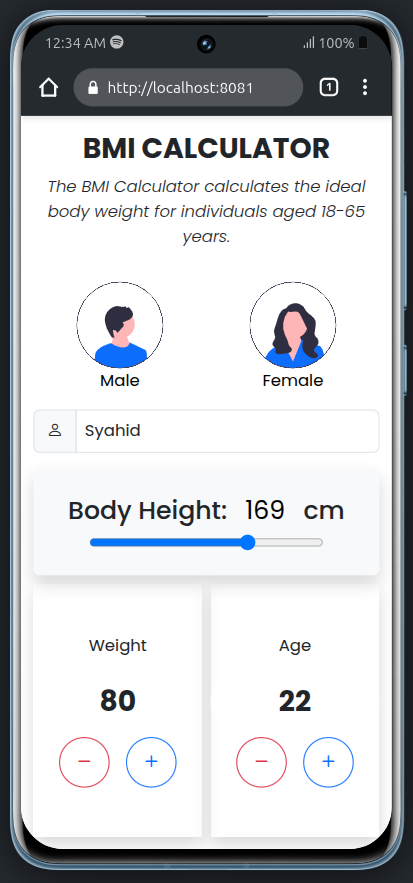
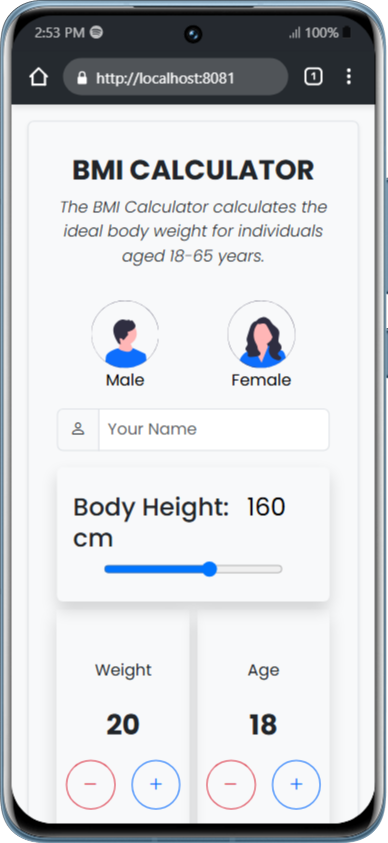
finish

diff --git a/src/components/BMIResult.jsx b/src/components/BMIResult.jsx
@@ -1,11 +1,11 @@
-import React, { useEffect, useMemo, useState } from "react";
+import React, { useEffect, useState } from "react";
 import Slider from "./Slider";
 import WeightandAge from "./WeightandAge";
 import User from "./User";
-import BMIHistory from "./BMIHistory";
-import WithLoading from "./WithLoading";
+import Loading from "./Loading";
 
 function BMIResult() {
+  const [isLoading, setIsLoading] = useState(false);
   const [bmi, setBmi] = useState(null);
   const [category, setCategory] = useState("");
   const [height, setHeight] = useState(160);
@@ -14,16 +14,15 @@ function BMIResult() {
   const [gender, setGender] = useState("");
   const [history, setHistory] = useState([]);
 
-  const storedHistory = JSON.parse(localStorage.getItem("bmiHistory")) || [];
-
-  // useEffect(() => {
-  //   const storedHistory = JSON.parse(localStorage.getItem("bmiHistory")) || [];
-  //   setHistory(storedHistory);
-  // }, []);
-
-  const BMIHistoryWithLoading = useMemo(() => {
-    return WithLoading(BMIHistory, storedHistory);
-  }, [storedHistory]);
+  useEffect(() => {
+    setIsLoading(true);
+    setTimeout(() => {
+      const storedHistory =
+        JSON.parse(localStorage.getItem("bmiHistory")) || [];
+      setHistory(storedHistory);
+      setIsLoading(false);
+    }, 1500);
+  }, []);
 
   const calculateBMI = () => {
     if (!name.trim() || !gender.trim()) {
@@ -31,40 +30,60 @@ function BMIResult() {
       return;
     }
 
-    const heightInMeters = height / 100;
-    const bmiValue = (weight / (heightInMeters * heightInMeters)).toFixed(2);
+    setIsLoading(true);
 
-    let bmiCategory = "";
-    if (bmiValue < 18.5) {
-      bmiCategory = "Underweight";
-    } else if (bmiValue >= 18.5 && bmiValue < 24.9) {
-      bmiCategory = "Normal weight";
-    } else if (bmiValue >= 25 && bmiValue < 29.9) {
-      bmiCategory = "Overweight";
-    } else {
-      bmiCategory = "Obese";
-    }
+    setTimeout(() => {
+      const heightInMeters = height / 100;
+      const bmiValue = (weight / (heightInMeters * heightInMeters)).toFixed(2);
+      console.log("ini adalah bmi value: ", bmiValue);
 
-    setBmi(bmiValue);
-    setCategory(bmiCategory);
+      let bmiCategory = "";
+      if (gender === "Male") {
+        if (bmiValue < 18.5) {
+          bmiCategory = "Underweight";
+        } else if (bmiValue >= 18.5 && bmiValue < 24.9) {
+          bmiCategory = "Normal weight";
+        } else if (bmiValue >= 25 && bmiValue < 29.9) {
+          bmiCategory = "Overweight";
+        } else {
+          bmiCategory = "Obese";
+        }
+      } else if (gender === "Female") {
+        if (bmiValue < 19.5) {
+          bmiCategory = "Underweight";
+        } else if (bmiValue >= 19.5 && bmiValue < 25.9) {
+          bmiCategory = "Normal weight";
+        } else if (bmiValue >= 26 && bmiValue < 30.9) {
+          bmiCategory = "Overweight";
+        } else {
+          bmiCategory = "Obese";
+        }
+      }
 
-    const newEntry = {
-      name,
-      gender,
-      height,
-      weight,
-      bmi: bmiValue,
-      category: bmiCategory,
-    };
+      setBmi(bmiValue);
+      setCategory(bmiCategory);
 
-    const updatedHistory = [newEntry, ...history.slice(0, 4)];
-    setHistory(updatedHistory);
-    localStorage.setItem("bmiHistory", JSON.stringify(updatedHistory));
+      const newEntry = {
+        name,
+        gender,
+        height,
+        weight,
+        bmi: bmiValue,
+        category: bmiCategory,
+      };
+      console.log("ini adalah new entry", newEntry);
+
+      const updatedHistory = [newEntry, ...history.slice(0, 4)];
+      setHistory(updatedHistory);
+      localStorage.setItem("bmiHistory", JSON.stringify(updatedHistory));
+
+      setIsLoading(false);
+    }, 1500);
   };
 
   return (
-    <div className="w-full shadow p-3 mx-auto">
-      <div className="container d-flex w-auto flex-column justify-content-center my-3">
+    <div className="bmi-container border border-1 rounded shadow-sm p-3 mx-auto">
+      <div className="d-flex w-auto flex-column justify-content-center my-3">
         <h1 className="fw-bold text-center">BMI CALCULATOR</h1>
         <p className="fst-italic fw-light text-center">
           The BMI Calculator calculates the ideal body weight for individuals
@@ -73,7 +92,12 @@ function BMIResult() {
       </div>
 
       <div className="container h-auto w-auto">
-        <User name={name} setName={setName} setGender={setGender} />
+        <User
+          name={name}
+          setName={setName}
+          gender={gender}
+          setGender={setGender}
+        />
         <Slider height={height} setHeight={setHeight} />
         <WeightandAge weight={weight} setWeight={setWeight} />
         <button
@@ -87,18 +111,64 @@ function BMIResult() {
         <div className="text-center shadow py-3 mt-3 rounded h-auto">
           <h2 className="fw-bold text-decoration-underline">BMI Result Here</h2>
 
-          {bmi && (
+          {isLoading ? (
+            <Loading />
+          ) : bmi && category ? (
             <>
               <h3>
                 Your BMI: <span className="text-primary">{bmi}</span>
               </h3>
               <p>Category: {category}</p>
             </>
+          ) : (
+            <p className="fst-italic pt-2 px-5 bmi-msg">
+              Enter your weight (must be at least 20 kg) and your age (cannot
+              exceed 65 years), then press the Calculate button.
+            </p>
           )}
         </div>
 
         {/* List History */}
-        <BMIHistoryWithLoading />
+
+        <div className="mt-4 mb-2 px-3 py-4 text-center rounded border-4 border-light shadow-lg h-auto">
+          <h2 className="fw-bold mb-3 text-decoration-underline">
+            Users History
+          </h2>
+          {isLoading ? (
+            <Loading />
+          ) : history.length > 0 ? (
+            <ul className="list-group text-start rounded">
+              {history.map((val, index) => (
+                <li
+                  key={index}
+                  className="list-group-item py-3 px-4 rounded m-1 shadow-md"
+                >
+                  <h4 className="fw-bold">
+                    {val.name} ({val.gender})
+                  </h4>{" "}
+                  {val.bmi} - {val.category}
+                </li>
+              ))}
+              <div className="d-flex justify-content-end mt-2">
+                <button
+                  onClick={() => {
+                    if (confirm("You sure want to delete all BMI history ?")) {
+                      localStorage.removeItem("bmiHistory");
+                      setHistory([]);
+                    }
+                  }}
+                  className="delete-history w-50 py-3 mt-2 bg-danger text-light rounded-4 border-1 border-light shadow-sm"
+                >
+                  <i className="bi bi-x-square"></i> Delete History
+                </button>
+              </div>
+            </ul>
+          ) : (
+            <p className="fst-italic pt-2 px-5 bmi-msg">
+              There is no history yet
+            </p>
+          )}
+        </div>
       </div>
     </div>
   );

diff --git a/src/components/Slider.jsx b/src/components/Slider.jsx
@@ -11,6 +11,7 @@ function Slider(props) {
     }
   };
 
+  // Saat kehilangan fokus, baru batasi nilainya
   const handleBlur = () => {
     let value = height;
     if (isNaN(value) || value < 100) {
@@ -24,28 +25,11 @@ function Slider(props) {
   return (
     <div className="d-flex flex-column align-items-center px-3 py-4 bg-light rounded shadow w-100">
       <h2 className="text-lg font-semibold">
-        Body Height:{" "}
-        <input
-          type="number"
-          min="100"
-          max="200"
-          value={height}
-          onChange={handleInputChange}
-          onBlur={handleBlur}
-          className="input-number"
-        />{" "}
-        cm
+        Body Height: <input type="number" min="100" max="200" value={height} onChange={handleInputChange} onBlur={handleBlur} className="input-number" /> cm
       </h2>
 
       {/* Slider */}
-      <input
-        type="range"
-        min="100"
-        max="200"
-        value={height === "" ? 100 : height}
-        onChange={handleInputChange}
-        className="w-75 accent-blue-500"
-      />
+      <input type="range" min="100" max="200" value={height === "" ? 100 : height} onChange={handleInputChange} className="w-75 accent-blue-500" />
     </div>
   );
 }

diff --git a/src/components/User.jsx b/src/components/User.jsx
@@ -3,7 +3,7 @@ import Male from "../assets/male.svg";
 import Female from "../assets/female.svg";
 
 function User(props) {
-  const { name, setName, setGender } = props;
+  const { name, setName, gender, setGender } = props;
 
   return (
     <div>
@@ -14,7 +14,13 @@ function User(props) {
           }}
           className="border-0 bg-transparent rounded-circle p-0"
         >
-          <img className="w-50 gender" src={Male} alt="maleimg" />
+          <img
+            className={`w-50 gender ${
+              gender === "Male" ? "active bg-success" : ""
+            }`}
+            src={Male}
+            alt="maleimg"
+          />
           <p>Male</p>
         </button>
         <button
@@ -23,7 +29,13 @@ function User(props) {
           }}
           className="border-0 bg-transparent rounded-circle p-0"
         >
-          <img className="w-50 gender" src={Female} alt="femaleimg" />
+          <img
+            className={`w-50 gender ${
+              gender === "Female" ? "active bg-success" : ""
+            }`}
+            src={Female}
+            alt="femaleimg"
+          />
           <p>Female</p>
         </button>
       </div>

diff --git a/src/components/WeightandAge.jsx b/src/components/WeightandAge.jsx
@@ -59,7 +59,7 @@ function WeightandAge(props) {
     lessMsg,
     moreMsg
   ) => {
-    if (e.key == "Enter") {
+    if (e.key === "Enter") {
       if (state === "" || state < lessValue) {
         setState(lessValue);
         alert(lessMsg);
@@ -79,7 +79,7 @@ function WeightandAge(props) {
           {
             <input
               type="number"
-              className="fw-bold fs-1 text-center border-0 rounded-pill form-control shadow-none no-spinner"
+              className="fw-bold fs-1 bg-transparent text-center border-0 rounded-pill form-control shadow-none no-spinner"
               min="20"
               max="200"
               value={weight}
@@ -140,7 +140,7 @@ function WeightandAge(props) {
           {
             <input
               type="number"
-              className="fw-bold fs-1 text-center border-0 rounded-pill form-control shadow-none"
+              className="fw-bold bg-transparent fs-1 text-center border-0 rounded-pill form-control shadow-none"
               min="18"
               max="65"
               value={age}

diff --git a/src/components/Loading.jsx b/src/components/Loading.jsx
@@ -1,0 +1,20 @@
+import React from "react";
+
+export default function Loading() {
+  return (
+    <div className="d-flex gap-3 justify-content-center">
+      <div className="spinner-grow text-primary p-4" role="status">
+        <span className="visually-hidden">Loading...</span>
+      </div>
+      <div className="spinner-grow text-secondary p-4" role="status">
+        <span className="visually-hidden">Loading...</span>
+      </div>
+      <div className="spinner-grow text-success p-4" role="status">
+        <span className="visually-hidden">Loading...</span>
+      </div>
+      <div className="spinner-grow text-danger p-4" role="status">
+        <span className="visually-hidden">Loading...</span>
+      </div>
+    </div>
+  );
+}

diff --git a/src/index.css b/src/index.css
@@ -14,6 +14,12 @@ body {
   font-family: var(--bs-body-font-family);
 }
 
+.bmi-container {
+  max-width: 600px;
+  width: 100%;
+  margin: 0 auto;
+}
+
 img.gender {
   transform: transform 1.5s ease-in-out, box-shadow 0.3s ease;
 }
@@ -24,9 +30,18 @@ img.gender:hover {
 
 img.gender:active {
   transform: scale(0.9);
-  background-color: #0d6efd;
+  background-color: #198754;
   opacity: 70%;
   border-radius: 10rem;
+}
+
+img.gender.active {
+  transform: scale(1.1);
+  border-radius: 10rem;
+}
+
+p.bmi-msg {
+  font-size: 0.8rem;
 }
 
 .input-number {
@@ -36,4 +51,8 @@ img.gender:active {
   outline: none;
   background: transparent;
   appearance: textfield;
+}
+
+.delete-history {
+  font-size: 0.8rem;
 }

diff --git a/src/App.jsx b/src/App.jsx
@@ -3,9 +3,9 @@ import BMIResult from "./components/BMIResult";
 
 function App() {
   return (
-    <>
+    <div className="bg-light p-3">
       <BMIResult />
-    </>
+    </div>
   );
 }
 
